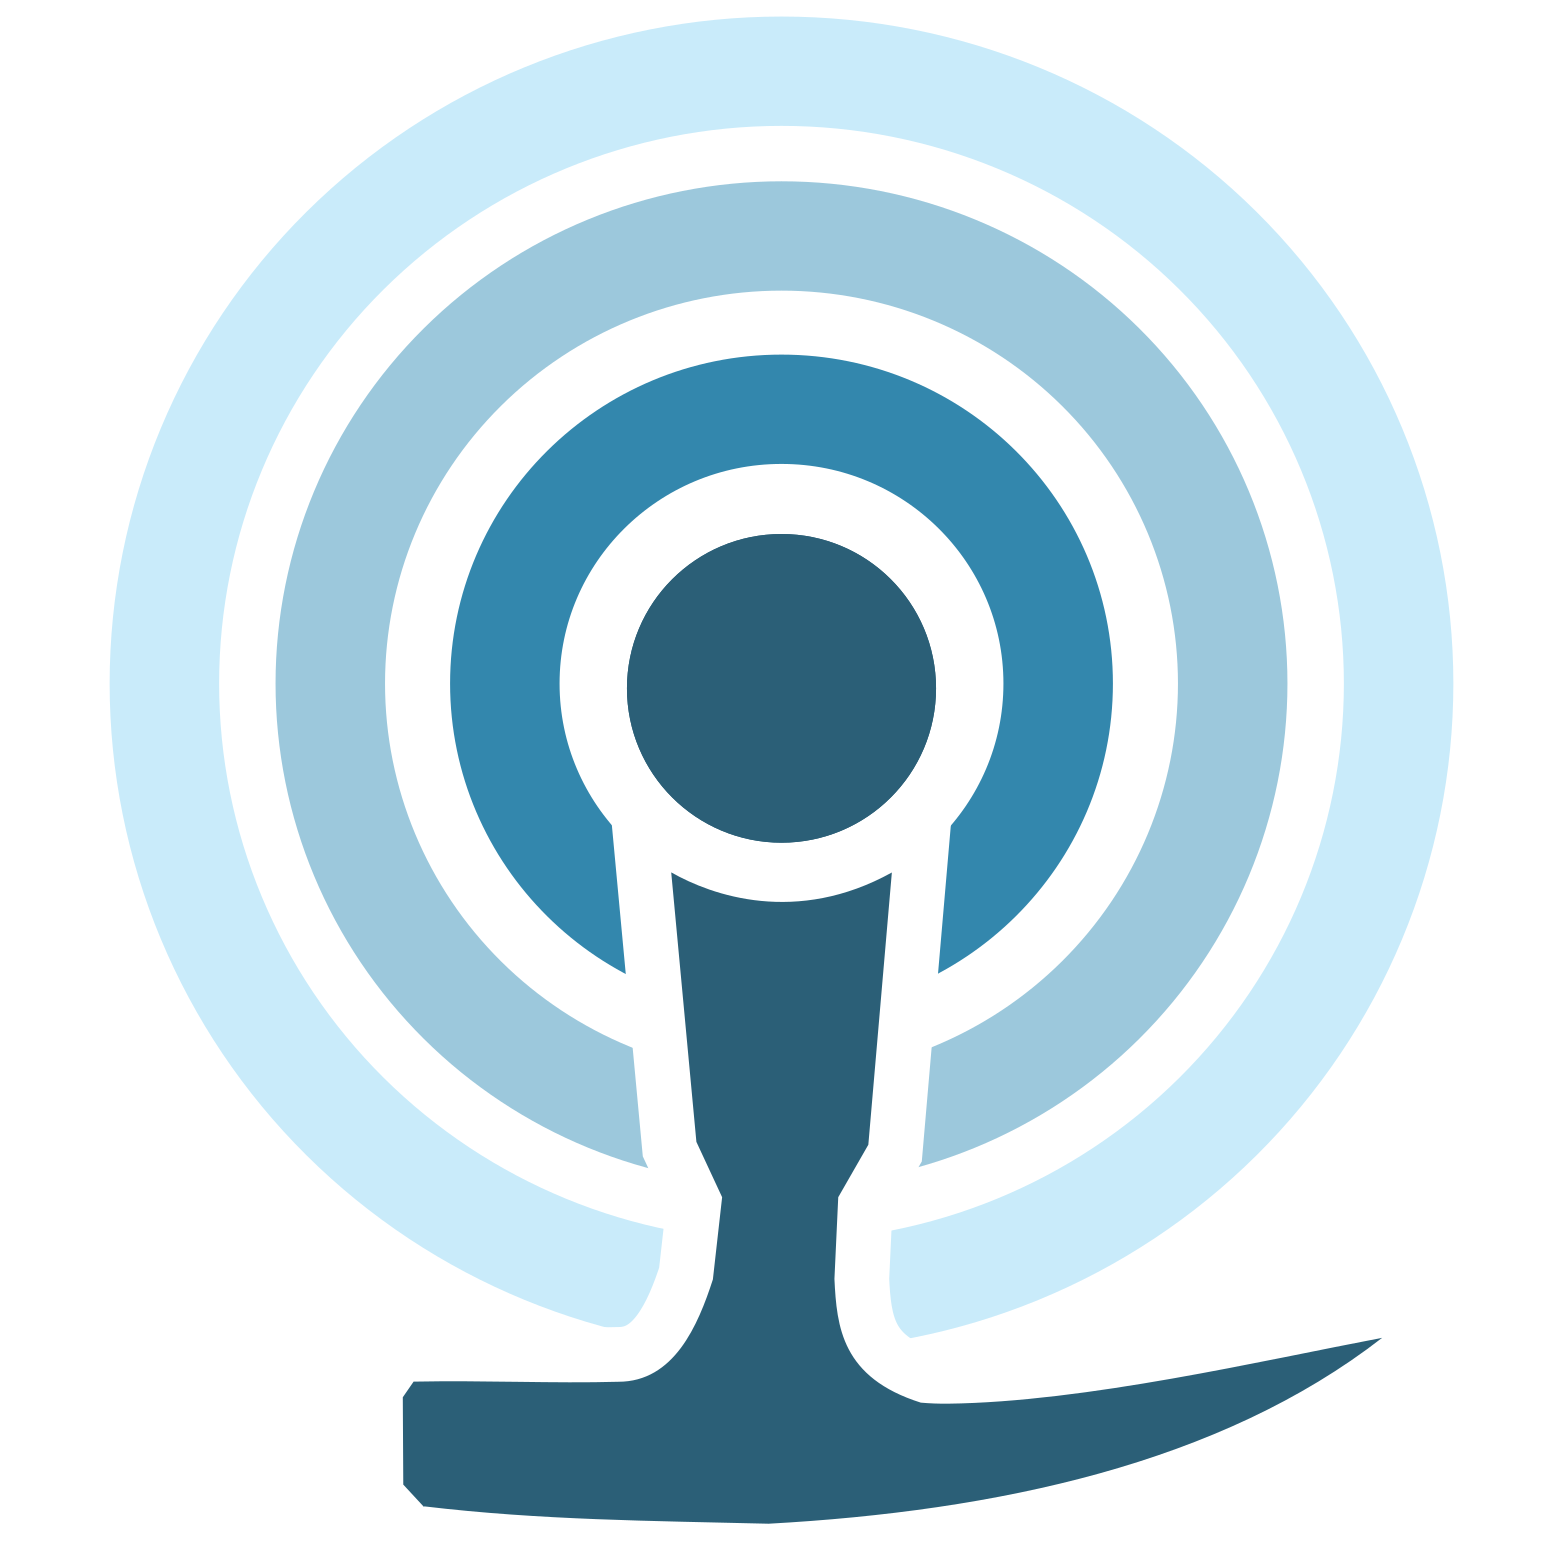
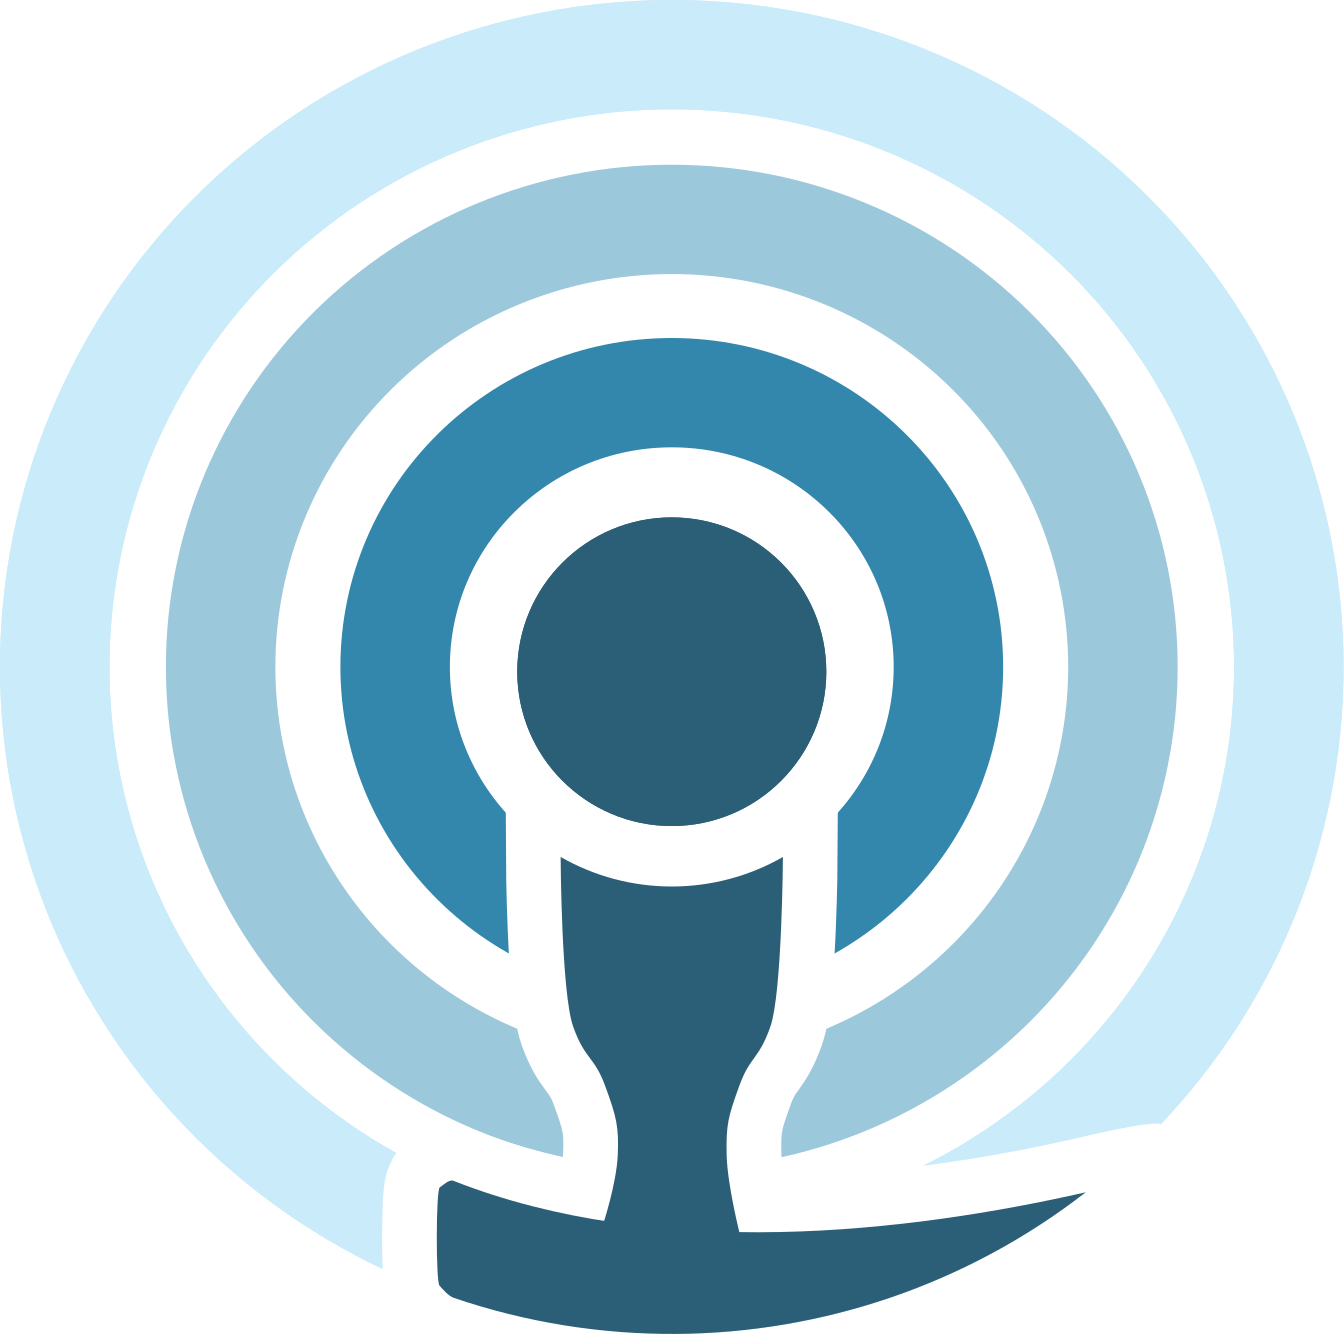
Let's

diff --git a/content/project/Rockpick/index.md b/content/project/Rockpick/index.md
@@ -31,3 +31,5 @@ slides: ""
 ---
 
 Description of the podcast when there is a podcast
+
+![The show](/images/rock-pick_3.svg)
